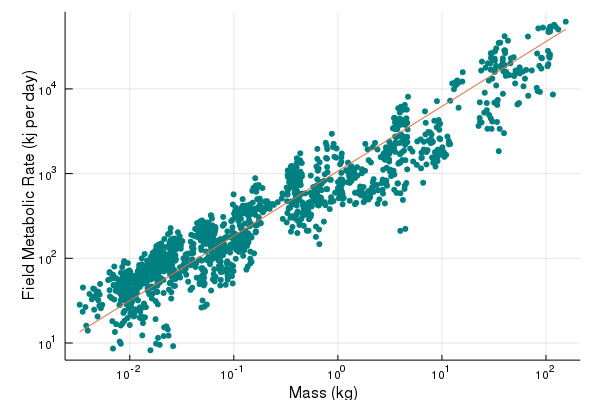
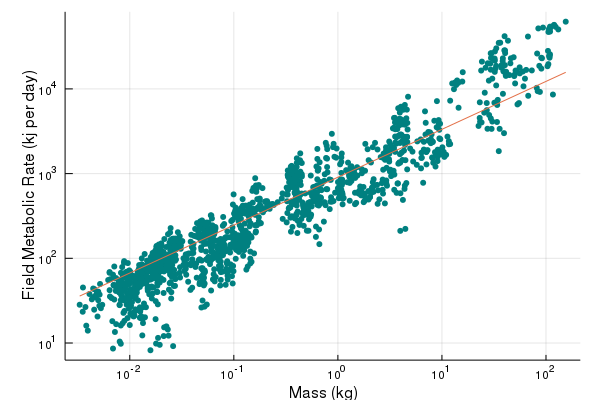
update scss

diff --git a/themes/shebang/static/css/configuration.css b/themes/shebang/static/css/configuration.css
@@ -6,7 +6,7 @@
   --color-information: rgb(141, 113, 148);
   --color-fg: rgb(30, 30, 30);
   --color-bg: rgb(255, 255, 255);
-  --color-main: #86a8ff;
+  --color-main: #9aaae3;
   --color-highlight: #ffdca1;
   --color-accent: #4d6ab3;
   --color-bright: #8eb356;

diff --git a/themes/shebang/static/css/_palette.scss b/themes/shebang/static/css/_palette.scss
@@ -7,7 +7,7 @@
   --color-fg: rgb(30, 30, 30);
   --color-bg: rgb(255, 255, 255);
 
-  --color-main: #86a8ff;
+  --color-main: #9aaae3;
   --color-highlight: #ffdca1;
   --color-accent: #4d6ab3;
   --color-bright: #8eb356;

diff --git a/content/capstones/genetic_algorithm.md b/content/capstones/genetic_algorithm.md
@@ -99,15 +99,16 @@ yaxis!(:log10, "Field Metabolic Rate (kj per day)")
 {{< figure src="../figures/genetic_algorithm_4_1.png" title="Relationship between field metabolic rate and mass - this is a neat log-log relationship, and so linear regression will give us the exponent."  >}}
 
 
-Neat! This is a log-log relationship, so we can represent this problem as
-$\text{log}_{10}(\text{FMR}) \propto m\times\text{log}_{10}(\text{M})+b$.
+Neat! This is a log-log relationship, so we can represent this problem as:
 
-{{> callout information <}}
+$$\text{log}_{10}(\text{FMR}) \propto m\times\text{log}_{10}(\text{M})+b$$
+
+{{< callout information >}}
 In this capstone, we will try to write a very general code for genetic
 algorithms. It is possible to come up with a more specific code, but spending
 time to think about making code general is almost always wise, since it means we
 can seamlessly re-use already written code.
-{{> /callout <}}
+{{< /callout >}}
 
 Genetic algorithms represent the state of the problem as "genomes", which here
 will be composed of two genes: $m$ and $b$. There are a few decisions we need to
@@ -127,10 +128,10 @@ end
 
 
 
-{{> callout information <}}
+{{< callout information >}}
 Defining a new type is *absolutely not* necessary. We are only doing it to show
 some interesting features of Julia.
-{{> /callout <}}
+{{< /callout >}}
 
 This means that our population will be of the type `Vector{Genome}`. Now, we
 will *add methods* to some of Julia's existing function, so we can write code
@@ -143,7 +144,7 @@ zero(::Type{Genome}) = Genome(0.0, 0.0)
 
 
 ````
-zero (generic function with 37 methods)
+zero (generic function with 38 methods)
 ````
 
 
@@ -161,12 +162,12 @@ population[1:5]
 
 
 ````
-5-element Array{Main.WeaveSandBox2.Genome,1}:
- Main.WeaveSandBox2.Genome(0.0, 0.0)
- Main.WeaveSandBox2.Genome(0.0, 0.0)
- Main.WeaveSandBox2.Genome(0.0, 0.0)
- Main.WeaveSandBox2.Genome(0.0, 0.0)
- Main.WeaveSandBox2.Genome(0.0, 0.0)
+5-element Array{Main.WeaveSandBox3.Genome,1}:
+ Main.WeaveSandBox3.Genome(0.0, 0.0)
+ Main.WeaveSandBox3.Genome(0.0, 0.0)
+ Main.WeaveSandBox3.Genome(0.0, 0.0)
+ Main.WeaveSandBox3.Genome(0.0, 0.0)
+ Main.WeaveSandBox3.Genome(0.0, 0.0)
 ````
 
 
@@ -184,7 +185,7 @@ population[1:5]
 
 
 ````
-5-element Array{Main.WeaveSandBox2.Genome,1}:
+5-element Array{Main.WeaveSandBox3.Genome,1}:
  ŷ = 0.0×x + 0.0
  ŷ = 0.0×x + 0.0
  ŷ = 0.0×x + 0.0
@@ -308,7 +309,7 @@ initial_genome
 
 
 ````
-ŷ = 0.193×x + 0.49
+ŷ = 0.187×x + 0.49
 ````
 
 
@@ -323,7 +324,7 @@ very_gradual_change! = normal_error(1e-3, 1e-3)
 
 
 ````
-(::getfield(Main.WeaveSandBox2, Symbol("#f#2")){Float64,Float64}) (generic 
+(::getfield(Main.WeaveSandBox3, Symbol("#f#2")){Float64,Float64}) (generic 
 function with 1 method)
 ````
 
@@ -343,27 +344,27 @@ population = [Genome(rand(Normal(1,0.5)), rand(Normal(3,1))) for i in 1:500]
 
 
 ````
-500-element Array{Main.WeaveSandBox2.Genome,1}:
- ŷ = 1.28×x + 3.948 
- ŷ = 0.931×x + 4.525
- ŷ = 0.262×x + 2.984
- ŷ = 0.901×x + 4.849
- ŷ = 0.998×x + 4.115
- ŷ = 1.449×x + 2.74 
- ŷ = 1.714×x + 1.987
- ŷ = 0.595×x + 4.617
- ŷ = 0.091×x + 2.289
- ŷ = 0.968×x + 5.752
+500-element Array{Main.WeaveSandBox3.Genome,1}:
+ ŷ = 0.966×x + 2.329
+ ŷ = 1.249×x + 2.853
+ ŷ = 0.501×x + 2.998
+ ŷ = 1.074×x + 1.847
+ ŷ = 0.908×x + 2.779
+ ŷ = 0.394×x + 3.351
+ ŷ = 1.173×x + 2.904
+ ŷ = 1.088×x + 2.725
+ ŷ = 0.921×x + 2.794
+ ŷ = 0.926×x + 3.572
  ⋮                   
- ŷ = 1.078×x + 3.928
- ŷ = 0.61×x + 1.933 
- ŷ = 0.9×x + 1.971  
- ŷ = 0.747×x + 4.629
- ŷ = 1.577×x + 2.832
- ŷ = 0.074×x + 3.756
- ŷ = 0.02×x + 1.698 
- ŷ = 1.206×x + 5.079
- ŷ = 1.269×x + 2.507
+ ŷ = 1.141×x + 2.102
+ ŷ = 1.821×x + 3.28 
+ ŷ = 1.104×x + 4.267
+ ŷ = 0.957×x + 3.539
+ ŷ = 1.38×x + 2.486 
+ ŷ = 1.271×x + 4.457
+ ŷ = 1.383×x + 1.555
+ ŷ = 1.219×x + 3.234
+ ŷ = 0.794×x + 3.477
 ````
 
 
@@ -400,4 +401,4 @@ yaxis!(:log10, "Field Metabolic Rate (kj per day)")
 {{< figure src="../figures/genetic_algorithm_18_1.png" title="Relationship between field metabolic rate and mass - this is a neat log-log relationship, and so linear regression will give us the exponent."  >}}
 
 
-We can also look at the equation for the most fit genome: ŷ = 0.765×x + 3.029.
+We can also look at the equation for the most fit genome: ŷ = 0.565×x + 2.957.
